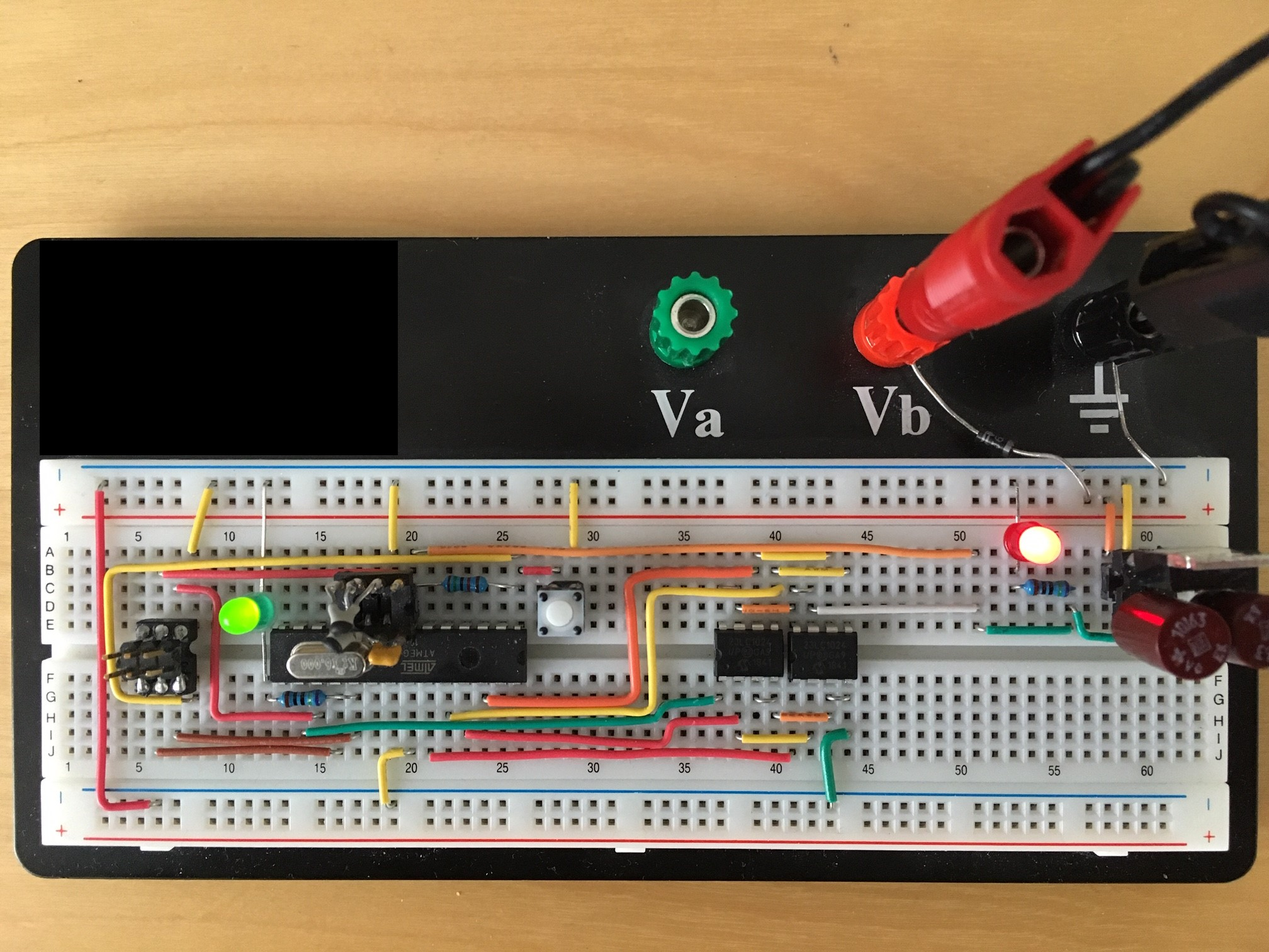
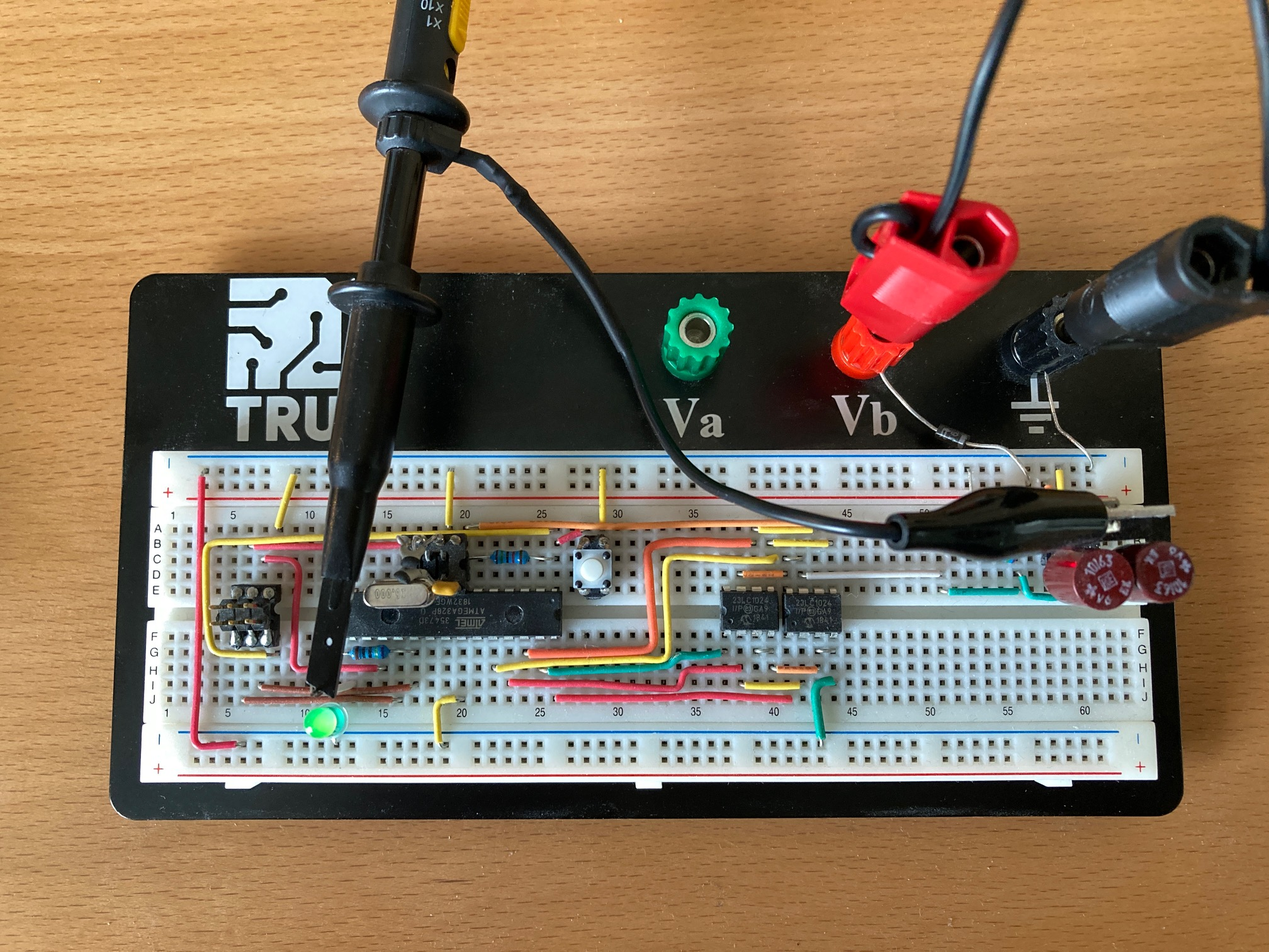
Preliminary wrapup example10_08

diff --git a/examples/chapter10_08/readme.md b/examples/chapter10_08/readme.md
@@ -9,10 +9,12 @@ constant <img src="https://render.githubusercontent.com/render/math?math=\pi">,
 showing fascinating memory management iterators,
 containers and algorithms along the way.
 
-This example depicts algorithmic complexity running in a real-world system.
-It simultaneously highlights the real-time numeric expression
-of the very detailed description of algorithmic complexity
-in the corresponding book section.
+This example embodies a stunning depiction
+of computational complexity running in a real-world, real-time system.
+In addition to maintaining real-time multitasking operation,
+it simultaneously highlights the quite detailed description
+of the Pi Spigot algorithm's complexity that can
+be found in the corresponding book section.
 
 # Application Description
 
@@ -20,7 +22,7 @@ The famous Pi Spigot algorithm is often used to compute
 modestly small numbers of decimal digits of the mathematical constant
 <img src="https://render.githubusercontent.com/render/math?math=\pi">.
 
-A simple expression for a Spigot algorithm for
+A simple expression of Spigot algorithm for
 <img src="https://render.githubusercontent.com/render/math?math=\pi">
 is provided in Eq. 6.1, Sect. 6.1,
 page 78 of Arndt and Haenel's [Pi Unleashed](https://www.springer.com/gp/book/9783642567353).
@@ -43,12 +45,14 @@ input memory consumption: 137788
 result_is_ok: true
 ```
 
-In the default release of this program, the Pi Spigot algorithm
-is setup to compute
+In the default release of this program
+from the code snippets area running on a PC,
+the Pi Spigot algorithm is set up to compute
 <img src="https://render.githubusercontent.com/render/math?math=10,001">
 digits of
 <img src="https://render.githubusercontent.com/render/math?math=\pi">.
-Play around with this program. Switch from the default setting of
+Play around with the output digit count in the program.
+Switch from the default setting of
 <img src="https://render.githubusercontent.com/render/math?math=10,001">
 digits down to
 <img src="https://render.githubusercontent.com/render/math?math=1,001">
@@ -68,10 +72,13 @@ have been used.
 Memory allocation schemes and external SRAM iterators/containers
 are described fully in the book. These have been used to
 abstract memory access to the off-chip SRAMs
-and allow the Pi Spigot program to run essentially out of the box.
+and allow the Pi Spigot program to run essentially
+out of the box in about the same form as found
+in the code snippets area.
 
-For this particular example, a state-machine variation
-of the single-state program is being used. The state-machine
+For this particular example adapted to the 8-bit MCU,
+a state-machine variation
+of the single-state program is used. The state-machine
 variation divides the computation time of the individual
 Pi Spigot operations among the time slices of the idle
 task of the multitasking scheduler. The internal state
@@ -81,7 +88,8 @@ consequently, iteratively and deliberately works its way
 through the Pi Spigot calculation.
 
 The program runs continuously, performing successive back-to-back
-calculations, the subsequent one beginning when the previous one finishes.
+calculations. The subsequent Pi Spigot calculation begins
+when the previous one finishes.
 Simultaneously, the well-known _blinky_ application with
 1s blinking on/off is handled in the LED task.
 
@@ -89,21 +97,27 @@ A tabulated, known control value containing
 <img src="https://render.githubusercontent.com/render/math?math=\gtrsim\,10,011">
 decimal digits of
 <img src="https://render.githubusercontent.com/render/math?math=\pi">
-is stored in the constant-valued, ROM-stored array variable
-`local::control::sys_idle_pi_spigot_cntrl`. This control value
+is stored in the constant-valued, ROM-based `array` variable
+called `local::control::sys_idle_pi_spigot_cntrl`. This control value
 is used to check the calculated digits of
 <img src="https://render.githubusercontent.com/render/math?math=\pi">
-in this example.
+on the fly as they are retrieved from each successive iteration
+of the calculation.
 
 Progress of the Pi Spigot calculation is reported in the
-form of the duty cycle of a PWM signal, requiring an oscilloscope
-to actually verify the calculation progress. A possible program extension
-could mount an additional resistor/LED series combination
-in order to view the calculation progress as LED brighness.
+duty cycle of a PWM signal on `timer_a` visible on `portb.1`, microcontroller pin 15.
+An oscilloscope is required in order to verify the calculation
+progress via PWM duty cycle measurement.
+A possible program extension
+could mount and subsequently implement control for
+an additional resistor/LED series combination
+or an LCD, as seen in
+[example Chapter10_08a](../chapter10_08a),
+in order to display the calculation progress more obviously.
 
 This example has been adapted to run on the AVR(R) MCU
 on our target with the 8-bit microcontroller.
-The default release is set up for
+The default release on the 8-bit MCU is set up for
 <img src="https://render.githubusercontent.com/render/math?math=1,001">
 decimal digits of
 <img src="https://render.githubusercontent.com/render/math?math=\pi">.
@@ -112,6 +126,9 @@ The
 decimal digit
 <img src="https://render.githubusercontent.com/render/math?math=\pi">
 calculation requires approximately 100s on this particular setup.
+The astute observer notes that
+the duty cycle representing number of digits computed
+accelerates toward the end of each calculation.
 
 # Hardware Setup
 
@@ -132,22 +149,29 @@ for the full
 digit range intended for this example.
 
 The [all-software SPI driver](./src/mcal_spi/mcal_spi_software_port_driver.h)
-communicates directly with the off-chip SRAM devices
-via standard protocol described in the SRAM chip's manual(s).
+communicates directly with the off-chip SRAM devices.
+The standard protocol described in the SRAM chip's manual(s) is used.
 
 Pinning in this example is summarized in the table below.
 
-| Pin SRAM_0,1   |  SRAM Function | MCU Function | MCU Pin            |
-| -------------- | -------------- | ------------ | ------------------ |
-| 1 (SRAM_0)     |    CS_0        | `portc.4`    |       27           |
-| 6 (SRAM_0)     |    SCK_0       | `portc.3`    |       26           |
-| 2 (SRAM_0)     |    SO_0        | `portc.2`    |       25           |
-| 5 (SRAM_0)     |    SI_0        | `portc.1`    |       24           |
-| 1 (SRAM_1)     |    CS_1        | `portc.5`    |       28           |
-| 6 (SRAM_1)     |    SCK_1       | `portc.3`    |  shared with SCK_0 |
-| 2 (SRAM_1)     |    SO_1        | `portc.2`    |  shared with SO_0  |
-| 5 (SRAM_1)     |    SI_1        | `portc.1`    |  shared with SI_0  |
+| Pin SRAM_0,1   |  SRAM Function | MCU Function            | MCU Pin            |
+| -------------- | -------------- | ----------------------- | ------------------ |
+| 1 (SRAM_0)     |    CS_0        | `portc.4`               |       27           |
+| 6 (SRAM_0)     |    SCK_0       | `portc.3`               |       26           |
+| 2 (SRAM_0)     |    SO_0        | `portc.2`               |       25           |
+| 5 (SRAM_0)     |    SI_0        | `portc.1`               |       24           |
+| 1 (SRAM_1)     |    CS_1        | `portc.5`               |       28           |
+| 6 (SRAM_1)     |    SCK_1       | `portc.3`               |  shared with SCK_0 |
+| 2 (SRAM_1)     |    SO_1        | `portc.2`               |  shared with SO_0  |
+| 5 (SRAM_1)     |    SI_1        | `portc.1`               |  shared with SI_0  |
+| NA             |                | `portb.1`/`timer_a` PWM |       15           |
 
-The hardware setup is pictured in the image below.
+The hardware setup is pictured in the image below with an oscilloscope measurement
+in action.
 
 ![](./images/board10_08.jpg)
+
+The PWM signal representing calculation progress is shown below.
+The PWM signal has a frequency of approximately two kilohertz.
+
+![](./images/scope10_08.jpg)
